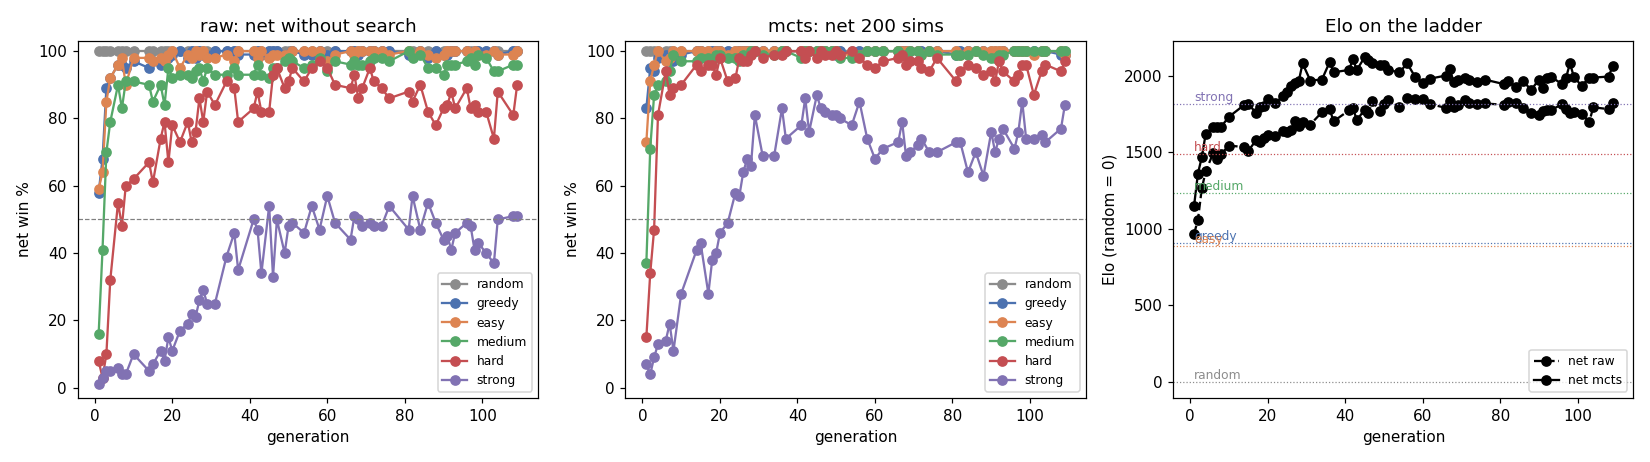
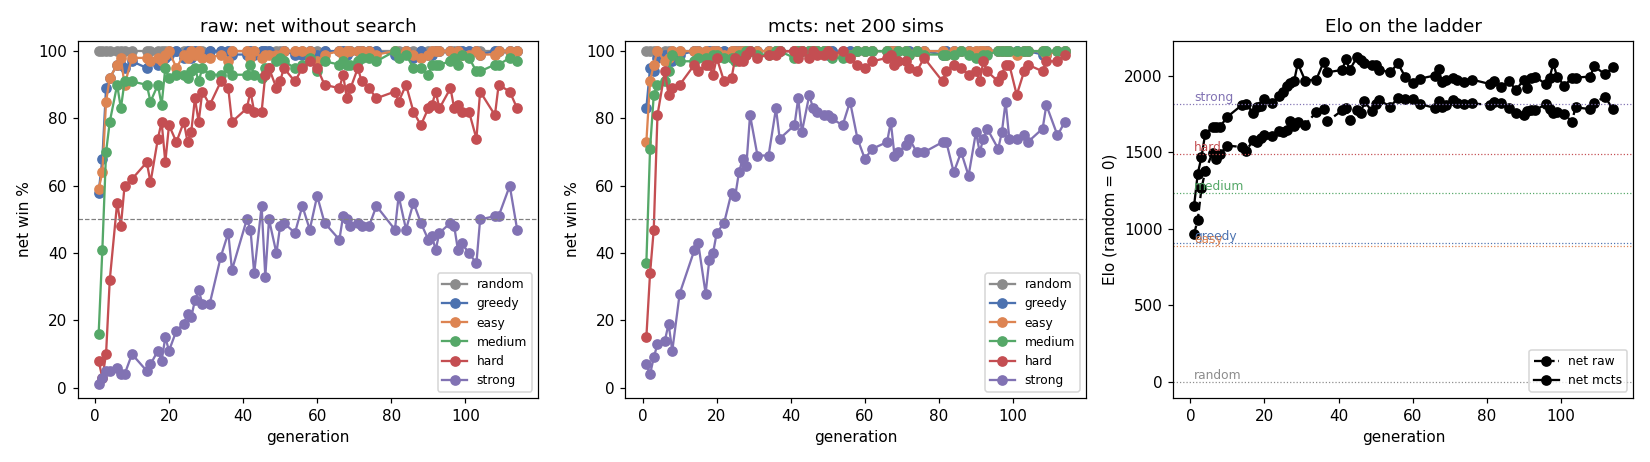
Series 9 done: g5 stopped at round 117 (plateau); best by ladder gen 49 (MCTS Elo 2122), 20/20 vs the real Hard, 40% vs Dot gen 54 with MCTS 200; late gens 112/114 beat Dot 74/68%; app and release v0.4

diff --git a/scripts/launcher.py b/scripts/launcher.py
@@ -25,7 +25,7 @@ configs/app.yaml (without the pin, the last accepted generation;
 scripts/update_best.py keeps the link current); in a fresh clone, without
 runs/, the menu offers to download the release networks (best.download,
 best_sizes.*.download and release_generations in configs/app.yaml: az5b gen
-54 from v0.1, dot2c gen 16 and dot2s gen 39 from v0.2). "network vs itself" can pick any accepted generation
+54 from v0.1, dot2c gen 16 and dot2s gen 39 from v0.2, g5 gen 49 from v0.4). "network vs itself" can pick any accepted generation
 of az5 and az5b on disk. Esc goes back to the menu
 from any mode (the game, its Xvfb and the worker are closed), Esc in the
 menu quits. English, Russian or Ukrainian (launcher/i18n.py), switched in
@@ -241,8 +241,8 @@ class App:
 
     def play_labels(self):
         """The networks of "vs KSquares" and "play": None (the released one,
-        runs/best) and the accepted rounds of the app's own runs."""
-        return [None] + [g["label"] for g in self.gens if g["own"] and g["size"] == self.board_size()]
+        runs/best), release networks marked ``play`` (g5) and the accepted rounds of the app's own runs."""
+        return [None] + [g["label"] for g in self.gens if (g["own"] or g.get("play")) and g["size"] == self.board_size()]
 
     # --- drawing helpers ---------------------------------------------------------
 
@@ -343,6 +343,15 @@ class App:
             self.text(self.L("network", label=f"{self.best['run']} gen {self.best['gen']}"), (160, 948), 22, DIM)
         else:
             self.text(self.L("network_none"), (160, 948), 22, DIM)
+        # honest captions of the picked release networks (release_generations[].note)
+        picked = [s["gen_play"]] if s["mode"] in ("ksquares", "play") else \
+            [s["gen_a"], s["gen_b"]] if s["mode"] == "self" else []
+        notes = []
+        for g in self.gens:
+            if g["label"] in picked and g.get("note") and g["label"] not in [n[0] for n in notes]:
+                notes.append((g["label"], g["note"].get(s["lang"]) or g["note"]["en"]))
+        for i, (label, note) in enumerate(notes):
+            self.text(f"{label}: {note}", (160, 984 + 28 * i), 18, DIM)
         self.text(self.L("esc_quit"), (40, H - 26), 26, FG, "bottomleft")
         self.text(self.L("menu_keys"), (W / 2, H - 30), 20, FAINT, "midbottom")
         if self.offer or self.download is not None:

diff --git a/launcher/core.py b/launcher/core.py
@@ -195,7 +195,7 @@ def download_best(cfg, progress, cancelled=lambda: False):
 
 def generations(cfg):
     """Every accepted generation on disk, in order: [{"run", "gen", "config",
-    "path", "label", "own", "size"}] (size: the run's board; own: a run of "Train your own Dot"): the project's runs, the best network too when its run
+    "path", "label", "own", "size", "note"?, "play"?}] (note / play: from a release_generations entry) (size: the run's board; own: a run of "Train your own Dot"): the project's runs, the best network too when its run
     is not on disk (a fresh clone with the downloaded one), then the app's
     own runs ("Train your own Dot", runs/<name>/train.yaml)."""
     from . import train
@@ -221,7 +221,13 @@ def generations(cfg):
     for g in cfg.get("release_generations") or []:
         p = os.path.join(ROOT, g["dir"], g["file"])
         if os.path.isfile(p):
-            extra.append({"run": g["download"]["run"], "gen": g["download"]["gen"], "config": g["config"], "path": p})
+            extra.append({"run": g["download"]["run"], "gen": g["download"]["gen"], "config": g["config"], "path": p,
+                          "note": g.get("note"), "play": bool(g.get("play"))})
+    # release networks with a caption ("note", per language) or offered in "play" / "vs KSquares" ("play")
+    for g in cfg.get("release_generations") or []:
+        for o in out + extra:
+            if o is not None and o["run"] == g["download"]["run"] and o["gen"] == g["download"]["gen"]:
+                o["note"], o["play"] = g.get("note"), bool(g.get("play"))
     k = sum(1 for g in out if g["config"] in cfg["generations"])
     for b in extra:
         if b is not None and not any(g["run"] == b["run"] and g["gen"] == b["gen"] for g in out):

diff --git a/tests/test_app.py b/tests/test_app.py
@@ -43,7 +43,7 @@ def test_download_best(tmp_path, monkeypatch):
     dl = cfg["best"]["download"]
     monkeypatch.setattr(core, "ROOT", str(tmp_path / "clone"))
     n = len(core.missing_downloads(cfg))
-    assert n == 3   # az5b, dot2c (10x7 best), dot2s gen 39
+    assert n == 4   # az5b, dot2c (10x7 best), dot2s gen 39, g5 gen 49 (series 9)
     seen = []
     core.download_best(cfg, lambda done, total: seen.append(done))
     assert core.missing_downloads(cfg) == []
@@ -413,3 +413,14 @@ def test_check_10x7_has_no_size_refusal():
     cfg = core.app_config()
     err = core.check("play", (10, 7), "en", cfg)
     assert err is None or "trained on" not in str(err)
+
+
+def test_g5_release_network():
+    """Series 9: g5 gen 49 is a release network with a caption in every language, offered in "play"."""
+    cfg = core.app_config()
+    g = next(x for x in cfg["release_generations"] if x["download"]["run"] == "g5")
+    assert g["play"] and set(g["note"]) == set(i18n.LANGS) and g["download"]["gen"] == 49
+    assert "configs/g5.yaml" in cfg["generations"]
+    for x in core.generations(cfg):
+        if x["run"] == "g5" and x["gen"] == 49:
+            assert x["play"] and x["note"] == g["note"]

diff --git a/scripts/graph_s9.py b/scripts/graph_s9.py
@@ -323,7 +323,11 @@ def cmd_report(cfg, quiet=False):
     b = run / "bridge.json"
     if b.exists():
         bj = json.loads(b.read_text())
-        L += ["## Bridge: 20 games against the real KSquares Hard", "", f"{json.dumps(bj.get('total', bj))}", ""]
+        L += ["## Bridge: games against the real KSquares Hard", "",
+              f"{bj['checkpoint']}, MCTS {bj['sims']} ({bj['leaves']} leaves per tree), game seed {bj['seed']}, first "
+              f"mover alternating: {bj['wins']} wins, {bj['losses']} losses, {bj['ties']} ties of {len(bj['games'])} "
+              f"(boxes {sum(g['net'] for g in bj['games'])}:{sum(g['hard'] for g in bj['games'])}). Dot (az5b gen 54): "
+              "18 of 20.", ""]
     L += ["## Rounds (accepted, evaluated generations)", "",
           "Ladder: win % with MCTS 200 / without thinking, 100 games per cell. Parity probe 5x5 (1000 positions): "
           "policy argmax correct %, V child (sign of V after every move, balanced) %, MCTS 200 correct %.", "",

diff --git a/launcher/brain.py b/launcher/brain.py
@@ -41,7 +41,7 @@ def evaluator(config: str, checkpoint: str, dev: str):
             rc = core.load_yaml(config)
             net = make_net(rc)
             net.load_state_dict(torch.load(checkpoint, map_location="cpu"))
-            _NETS[key] = (Evaluator(net, dev), rc)
+            _NETS[key] = (Evaluator(net, dev, compile=False), rc)   # no torch.compile wait in the app
         return _NETS[key]
 
 

diff --git a/docs/graph_s9.md b/docs/graph_s9.md
@@ -1,14 +1,14 @@
 # Part 4, series 9: the graph net plays 5x5 (run g5)
 
-Generated by `scripts/graph_s9.py report` (2026-11-19 14:17). Protocol: docs/plan_part4.md (series 9), configs/g5.yaml (= configs/az5b.yaml apart from the net, from scratch, and the run plumbing). Dot = az5 (rounds 1-31) then az5b (rounds 32-119) on the same ladder; round = generation (accepted or not).
+Generated by `scripts/graph_s9.py report` (2026-11-19 16:39). Protocol: docs/plan_part4.md (series 9), configs/g5.yaml (= configs/az5b.yaml apart from the net, from scratch, and the run plumbing). Dot = az5 (rounds 1-31) then az5b (rounds 32-119) on the same ladder; round = generation (accepted or not).
 
-State: 111 rounds done, 65 accepted, running. Training hours: 47.4 (to the last evaluated generation).
+State: 117 rounds done, 67 accepted, stopped by the rule: plateau at round 117: best MCTS Elo 2127, +0 over the last 20 rounds. Training hours: 49.5 (to the last evaluated generation).
 
 Workers and limits: from the start 2026-11-17: 6 self-play workers, no GPU memory limit, no nice (user: machine free today; 8 workers measured 19.5k vs 19.0k evals/s at 6, not worth it).
 
-Stop rule (amendment, 2026-11-17, round 16): at least 117 rounds and the best MCTS Elo up by <= 20 over the last 20 rounds; 6 rejects in a row as the fallback; hard cap 250 rounds. Now: judged at round 109 of 117, best MCTS Elo 2127, +0 over the last 20 rounds.
+Stop rule (amendment, 2026-11-17, round 16): at least 117 rounds and the best MCTS Elo up by <= 20 over the last 20 rounds; 6 rejects in a row as the fallback; hard cap 250 rounds. Now: judged at round 114 of 117, best MCTS Elo 2127, +0 over the last 20 rounds.
 
-Pace: self-play 23 min per round, 18294 evals/s (last 5 rounds).
+Pace: self-play 23 min per round, 18321 evals/s (last 5 rounds).
 
 ## Comparison by rounds
 
@@ -25,7 +25,7 @@ Elo (MCTS 200 / without thinking) of the last accepted, evaluated generation wit
 |---:|---:|---|---:|---:|---|---:|
 | 12 | 28 | 1966 / 1673 | 1966 | 31 | 1870 / 1614 | 1895 |
 | 24 | 56 | 2096 / 1856 | 2127 | 90 | 2151 / 1713 | 2164 |
-| 48 | 109 (not yet) | 2077 / 1825 | 2127 | 114 (Dot ended at 28.4 h) | 2005 / 1684 | 2164 |
+| 48 | 109 | 2077 / 1825 | 2127 | 114 (Dot ended at 28.4 h) | 2005 / 1684 | 2164 |
 
 ## Re-evaluation of gens 45-60, 300 games per cell
 
@@ -55,6 +55,28 @@ Third amendment (user, 2026-11-18, round 70); the series' verdict does not chang
 | 54 | 2036 / 1844 | 2.05 | 0.39 | 73 | 78 | 80 | 74.4 | 74.4 | 85.0 |
 | 60 | 1961 / 1853 | 1.96 | 0.42 | 68 | 69 | 72 | 75.9 | 75.1 | 87.5 |
 | 69 (last) | 1979 / 1808 | 1.90 | 0.43 | 66 | 70 | 82 | 77.9 | 77.5 | 87.3 |
+
+## Matches: g5 vs Dot gen 54
+
+Picks (second amendment; Elo with the 300-games re-evaluation where it exists): best MCTS Elo = gen 49; best Elo without thinking = gen 112; last accepted = gen 114. 200 games per match, first mover alternating, the first 4 lines at temperature 1 (opening variety), then the best move.
+
+| g5 gen | pick | match | g5 | Dot | g5 wins | Dot wins | ties | g5 score % |
+|---:|---|---|---|---|---:|---:|---:|---:|
+| 49 | best MCTS Elo | MCTS 200 both | 200 sims | 200 sims | 80 | 120 | 0 | 40.0 |
+| 49 | best MCTS Elo | without thinking both | raw | raw | 123 | 77 | 0 | 61.5 |
+| 49 | best MCTS Elo | equal time per move | 58 sims | 200 sims | 62 | 138 | 0 | 31.0 |
+| 112 | best Elo without thinking | MCTS 200 both | 200 sims | 200 sims | 148 | 52 | 0 | 74.0 |
+| 112 | best Elo without thinking | without thinking both | raw | raw | 157 | 43 | 0 | 78.5 |
+| 112 | best Elo without thinking | equal time per move | 58 sims | 200 sims | 130 | 70 | 0 | 65.0 |
+| 114 | last accepted | MCTS 200 both | 200 sims | 200 sims | 136 | 64 | 0 | 68.0 |
+| 114 | last accepted | without thinking both | raw | raw | 169 | 31 | 0 | 84.5 |
+| 114 | last accepted | equal time per move | 58 sims | 200 sims | 123 | 77 | 0 | 61.5 |
+
+Equal time: single-game search (leaves_per_tree 8, as the app) on 200 positions: Dot 200 sims 33.8 ms per move; g5 58 sims 34.8 ms per move (g5 at 200 sims: 102.8 ms).
+
+## Bridge: games against the real KSquares Hard
+
+runs/g5/gen_0049.pt, MCTS 200 (8 leaves per tree), game seed 11, first mover alternating: 20 wins, 0 losses, 0 ties of 20 (boxes 329:171). Dot (az5b gen 54): 18 of 20.
 
 ## Rounds (accepted, evaluated generations)
 
@@ -127,5 +149,32 @@ Ladder: win % with MCTS 200 / without thinking, 100 games per cell. Parity probe
 | 104 | 45.3 | 84 | 100 / 100 | 100 / 99 | 100 / 99 | 100 / 94 | 96 / 88 | 73 / 50 | 1992 / 1799 | 77.6 | 90.1 | 95.0 |
 | 108 | 47.0 | 85 | 100 / 100 | 99 / 100 | 100 / 99 | 100 / 96 | 94 / 81 | 77 / 51 | 1999 / 1787 | 75.2 | 89.4 | 94.2 |
 | 109 | 47.4 | 64 | 100 / 100 | 99 / 100 | 99 / 100 | 100 / 96 | 97 / 90 | 84 / 51 | 2077 / 1825 | 75.7 | 89.1 | 95.6 |
+| 112 | 48.7 | 66 | 100 / 100 | 100 / 100 | 100 / 100 | 100 / 98 | 97 / 88 | 75 / 60 | 2012 / 1865 | 76.6 | 89.0 | 95.3 |
+| 114 | 49.5 | 65 | 100 / 100 | 100 / 100 | 100 / 100 | 100 / 97 | 99 / 83 | 79 / 47 | 2059 / 1783 | 75.4 | 91.0 | 96.0 |
 
 ![g5 next to Dot](graph_s9.png)
+
+## Outcome (2026-11-19)
+
+- The run stopped by the plateau rule (first amendment) after round 117 (16:27): best MCTS Elo of the running
+  100-games evaluation 2127 (gen 45), +0 over the last 20 rounds. 117 rounds, 67 accepted, 50.8 h of training
+  (self-play + train + gate), 6 workers throughout, no other load change.
+- By rounds, g5 reached both milestones first: Hard >= 90 % with MCTS at round 6 (Dot 11 in the data, 17 as the user
+  quoted), V sign >= 75 % at round 10 (Dot 11; user: 8). By hours: 12 h 1966 / 1673 against Dot 1870 / 1614;
+  24 h 2096 / 1856 against 2151 / 1713; 48 h 2077 / 1825 against Dot's final 2005 / 1684 (best 2164).
+- Ladder: MCTS Elo rose to about 2100-2120 by gens 45-51 (300-games re-evaluation), then settled at about 1950-2050;
+  raw Elo rose to about 1850 and stayed (Dot's best raw 1724). The drop with MCTS on the ladder is real (third
+  table) and is not explained by the diagnosis: the policy sharpens a little, V gets better, the gain from more
+  simulations against strong gets smaller at gens 54-60.
+- Best g5 by the protocol (highest MCTS Elo, 300-games values where they exist) = gen 49. Against the real
+  KSquares Hard over the bridge it won 20 of 20 (Dot 18 of 20).
+- Head to head against Dot gen 54 the ladder order does not hold: gen 49 loses with MCTS 200 (40 %) and at equal
+  time (31 %; g5 needs about 3x the time per simulation, 58 sims = Dot's 200), and wins only without thinking
+  (61.5 %). The late generations beat Dot in every mode: gen 112 74 / 78.5 / 65 %, gen 114 68 / 84.5 / 61.5 %
+  (MCTS 200 / without thinking / equal time; 200 games, about +-7 points). The ladder's opponents (scripted agents up
+  to strong) and Dot rank the late g5 generations differently; the "MCTS drop" is a drop against the ladder, not
+  against Dot.
+- App (amendment, whatever the strength): g5 gen 49 is a release network (configs/app.yaml release_generations,
+  v0.4), offered in "play" and "vs KSquares", every accepted g5 generation in "network vs itself"; the menu shows
+  its ladder caption, the bridge and the head-to-head result. Screenshot: docs/app_g5_vs_dot.png (g5 gen 49 against
+  az5b gen 54, thoughts panel of g5). The app runs the graph net eagerly (no torch.compile wait at start).

diff --git a/docs/graph_s9_notes.md b/docs/graph_s9_notes.md
@@ -1,0 +1,24 @@
+## Outcome (2026-11-19)
+
+- The run stopped by the plateau rule (first amendment) after round 117 (16:27): best MCTS Elo of the running
+  100-games evaluation 2127 (gen 45), +0 over the last 20 rounds. 117 rounds, 67 accepted, 50.8 h of training
+  (self-play + train + gate), 6 workers throughout, no other load change.
+- By rounds, g5 reached both milestones first: Hard >= 90 % with MCTS at round 6 (Dot 11 in the data, 17 as the user
+  quoted), V sign >= 75 % at round 10 (Dot 11; user: 8). By hours: 12 h 1966 / 1673 against Dot 1870 / 1614;
+  24 h 2096 / 1856 against 2151 / 1713; 48 h 2077 / 1825 against Dot's final 2005 / 1684 (best 2164).
+- Ladder: MCTS Elo rose to about 2100-2120 by gens 45-51 (300-games re-evaluation), then settled at about 1950-2050;
+  raw Elo rose to about 1850 and stayed (Dot's best raw 1724). The drop with MCTS on the ladder is real (third
+  table) and is not explained by the diagnosis: the policy sharpens a little, V gets better, the gain from more
+  simulations against strong gets smaller at gens 54-60.
+- Best g5 by the protocol (highest MCTS Elo, 300-games values where they exist) = gen 49. Against the real
+  KSquares Hard over the bridge it won 20 of 20 (Dot 18 of 20).
+- Head to head against Dot gen 54 the ladder order does not hold: gen 49 loses with MCTS 200 (40 %) and at equal
+  time (31 %; g5 needs about 3x the time per simulation, 58 sims = Dot's 200), and wins only without thinking
+  (61.5 %). The late generations beat Dot in every mode: gen 112 74 / 78.5 / 65 %, gen 114 68 / 84.5 / 61.5 %
+  (MCTS 200 / without thinking / equal time; 200 games, about +-7 points). The ladder's opponents (scripted agents up
+  to strong) and Dot rank the late g5 generations differently; the "MCTS drop" is a drop against the ladder, not
+  against Dot.
+- App (amendment, whatever the strength): g5 gen 49 is a release network (configs/app.yaml release_generations,
+  v0.4), offered in "play" and "vs KSquares", every accepted g5 generation in "network vs itself"; the menu shows
+  its ladder caption, the bridge and the head-to-head result. Screenshot: docs/app_g5_vs_dot.png (g5 gen 49 against
+  az5b gen 54, thoughts panel of g5). The app runs the graph net eagerly (no torch.compile wait at start).

diff --git a/docs/g5_ladder.md b/docs/g5_ladder.md
@@ -1,6 +1,6 @@
 # AlphaZero 5x5 (g5) — ladder per accepted generation
 
-Generated by `scripts/az_eval.py` from `runs/g5` (2026-11-19 13:15). Win % of the net, 100 games per cell, first mover alternating; raw = policy argmax without search, mcts = 200 simulations. Elo: Bradley-Terry vs the fixed ladder anchors, random = 0. strong here: {'node_budget': 23000}.
+Generated by `scripts/az_eval.py` from `runs/g5` (2026-11-19 15:21). Win % of the net, 100 games per cell, first mover alternating; raw = policy argmax without search, mcts = 200 simulations. Elo: Bradley-Terry vs the fixed ladder anchors, random = 0. strong here: {'node_budget': 23000}.
 
 Anchor Elo (from the ladder in docs/results.md): random 0, greedy 905, easy 888, medium 1235, hard 1488, strong 1815.
 
@@ -71,3 +71,5 @@ Anchor Elo (from the ladder in docs/results.md): random 0, greedy 905, easy 888,
 | 104 | 84 | 100 | 99 | 99 | 94 | 88 | 50 | 1795 | 100 | 100 | 100 | 100 | 96 | 73 | 1990 |
 | 108 | 85 | 100 | 100 | 99 | 96 | 81 | 51 | 1783 | 100 | 99 | 100 | 100 | 94 | 77 | 1996 |
 | 109 | 64 | 100 | 100 | 100 | 96 | 90 | 51 | 1825 | 100 | 99 | 99 | 100 | 97 | 84 | 2064 |
+| 112 | 66 | 100 | 100 | 100 | 98 | 88 | 60 | 1865 | 100 | 100 | 100 | 100 | 97 | 75 | 2010 |
+| 114 | 65 | 100 | 100 | 100 | 97 | 83 | 47 | 1783 | 100 | 100 | 100 | 100 | 99 | 79 | 2056 |

diff --git a/docs/overnight.md b/docs/overnight.md
@@ -1380,3 +1380,14 @@ training"; no 7x10; Dot-2 is 6x64; Dot level = MCTS ladder Elo >= 2100 and
   V sign 89.1 %, MCTS on the probe 95.6 %.
 - Diagnosis of the MCTS drop done 2026-11-18 23:09 (section in graph_s9.md): policy entropy 2.09 -> 1.90, gain from
   MCTS 50 to 800 vs strong smaller at gens 54/60, V sign better at later gens; rounds slowed by 9-13 % meanwhile.
+
+### 2026-11-19 16:27-16:45 — series 9: stop by the plateau rule, matches, bridge, app, release
+
+- g5 stopped after round 117 (plateau rule; 67 accepted, 50.8 h). Picks: best MCTS Elo gen 49 (300-games value),
+  best raw gen 112 (100-games 1865 vs gen 50's 300-games 1857: mixed estimates, as decided in the second amendment),
+  last accepted gen 114. Equal time: g5 58 sims = Dot 200 (34.8 vs 33.8 ms per move).
+- Matches vs Dot gen 54 (MCTS 200 / raw / equal time): gen 49 40 / 61.5 / 31 %; gen 112 74 / 78.5 / 65 %;
+  gen 114 68 / 84.5 / 61.5 %. The ladder ranks gen 49 first, Dot ranks the late generations far above it.
+- Bridge, gen 49 vs the real Hard: 20 / 20 (first run's JSON path was wrong; rerun gave the same 20 games).
+- App: g5 gen 49 as release network (v0.4) with a caption, in play / vs KSquares / net vs net; all g5 gens in net vs
+  net; app evaluator without torch.compile. Screenshot docs/app_g5_vs_dot.png.
